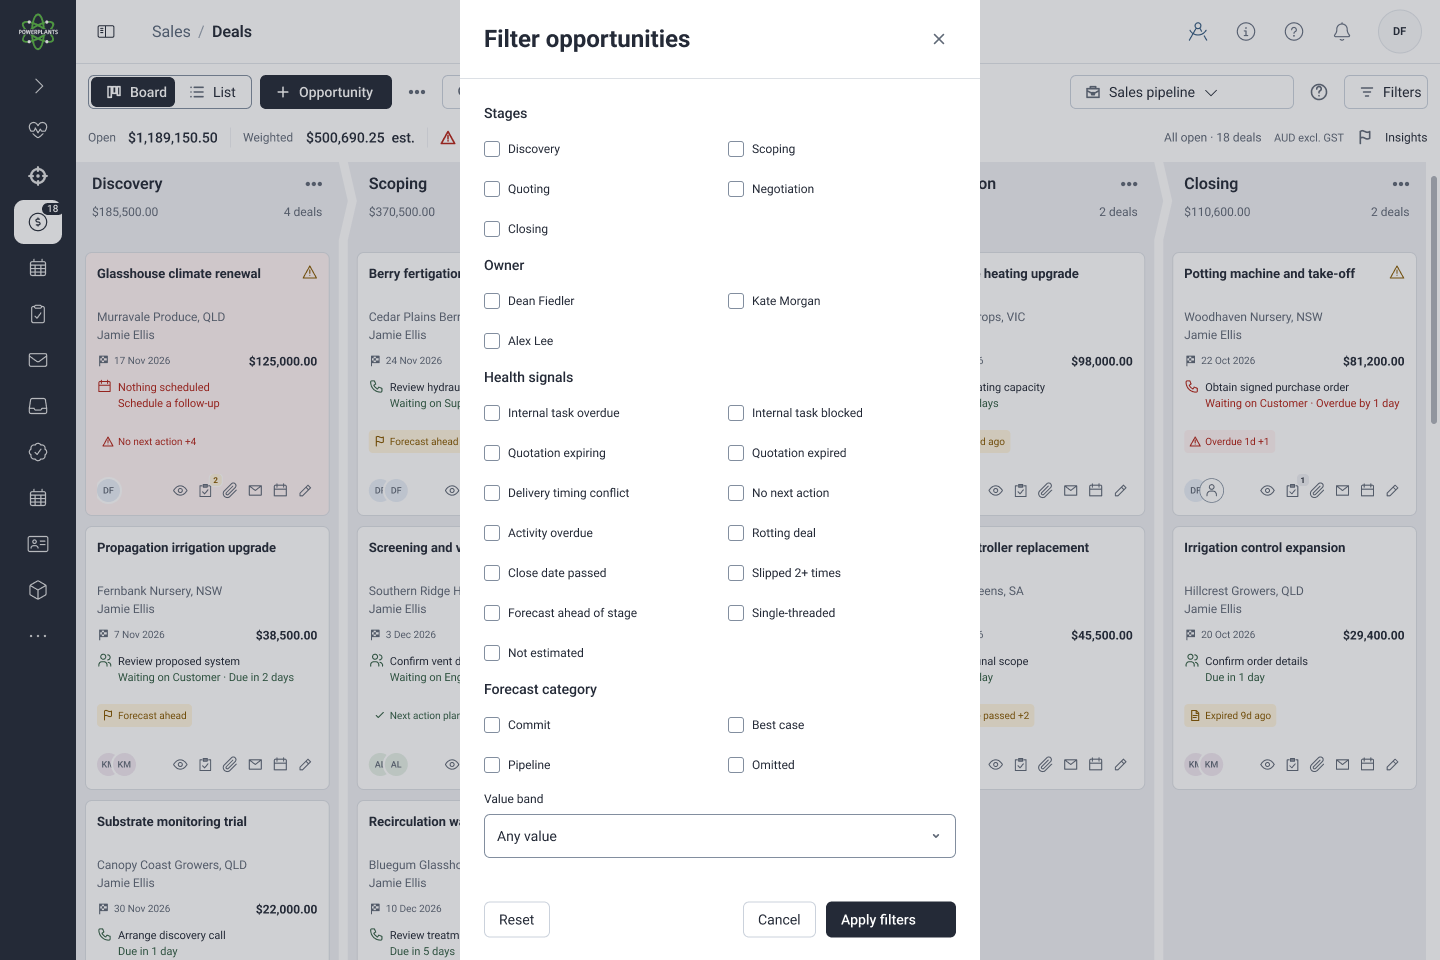
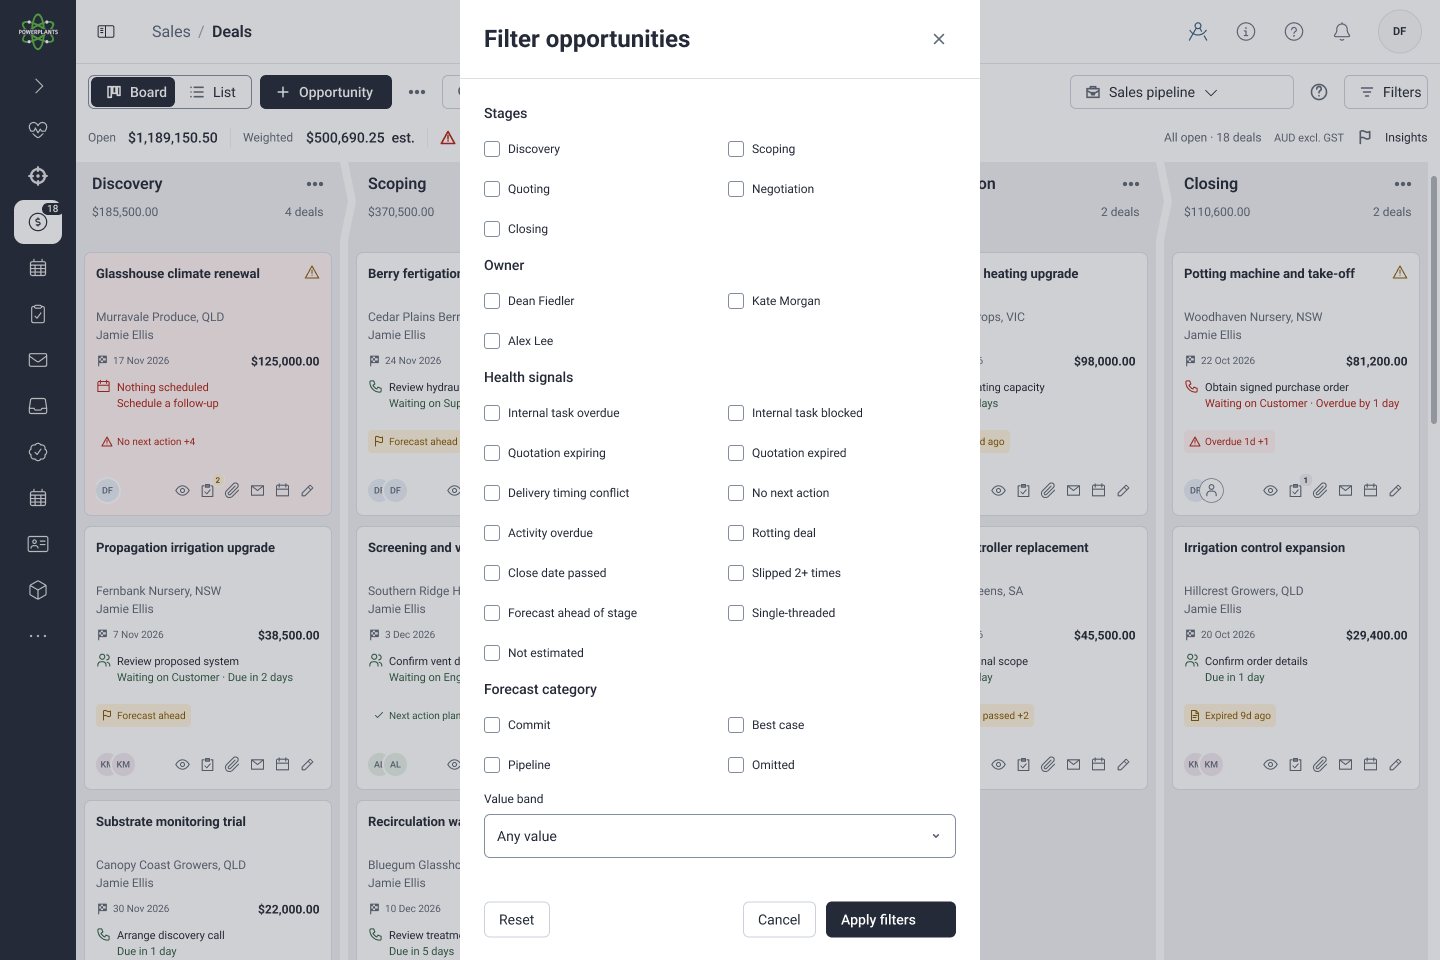
Refine Deals Figma gutters and card borders

diff --git a/docs/testing/evidence/deals-figma/README.md b/docs/testing/evidence/deals-figma/README.md
@@ -29,12 +29,14 @@ All frames are on [Deals (proposal)](https://www.figma.com/design/epLfuDjst5hUJe
 ## 14 October visual refinement
 
[1 lines of base64/hex data omitted]
-- Corrected paired 9px outgoing points and incoming cut-ins across all 20 headers in the four board compositions. The white channel follows the header outline without clipped strokes.
+- Corrected paired outgoing points and incoming cut-ins across all 20 headers in the four board compositions. The final follow-up uses 8px edges and gutters, a proposed refinement of the issued 9px spacing. The white channel follows the header outline without clipped strokes.
 - Polished all 72 card instances through the two existing variants: source spacing, correct expected-close and activity icons, finer icon strokes, overlapping 23px avatars, task counts and overdue/rotting colours. Cards remain 264px high; targeted width checks found no text wider than its parent.
+- Refined column/card geometry after Dean specifically called out gaps and borders: 262.8px columns with 9px gutters and 244.8px cards became 264px columns with 8px gutters/insets and 248px cards. Both local card masters and all 72 instances retain 7px corners and uniform 1px inside #dce0e5 borders without effects. In the final Board export, pixel samples at all five first-card left edges return exactly #dce0e5; the previous fractional positions blended several edges.
+- Increased each card stack from 1900px to 1932px, with a 2010px total column height. This restores the clipped final 20px of the seventh Quoting card and its 12px bottom padding in every board composition.
 - Removed the rounded module frame and inset from all five desktop views. Each toolbar, status strip and board/list is now directly in the shared workspace. Restored the inactive Leads glyph contrast using the existing rail icon token on these instances.
 - Compared the accepted Leads workspace and table (`190:20513`, header `196:23379`, default row `196:23346`). The Deals row `551:948` and new header `588:6771` reuse Grid components `74:9`, `74:11`, `74:14`, `74:18`, `74:22`, `74:26`, `74:35`, `74:48` and `74:50`. Shared masters were not changed.
 - List header and all 18 rows are 40px high; body/header text uses shared 14px styles. The 1604px table scrolls horizontally within 1364px. Contact and due are separate columns; stage tags retain the exact 4/3/7/2/2 source distribution. Long cell text uses intentional single-line ellipsis.
-- Inspected fresh Board, List, Snapshot, Filters and Pipeline exports at 1440 x 960. Corrected unresolved fallback surface colours and inherited stage-tag labels before the final passing renders. These five PNGs are the final 14 October captures. The phone PNG is unchanged from 13 October.
+- Inspected fresh Board, List, Snapshot, Filters and Pipeline exports at 1440 x 960. Corrected unresolved fallback surface colours and inherited stage-tag labels before the final passing renders. Board, Snapshot, Filters and Pipeline were recaptured and visually inspected after the final gap/border/height refinement; List retains its passing earlier 14 October capture. The phone PNG is unchanged from 13 October.
 - The screenshot establishes requested appearance; this agent inspection does not grant owner acceptance. No application changes were made.
 
 ## Limits

diff --git a/docs/decisions/deals-figma-design.md b/docs/decisions/deals-figma-design.md
@@ -20,14 +20,14 @@ Source SHA-256: `3b0d7806907bc97e9db37f5ae7d0cedf385abb6d9ec2781b0bedd1e8e7c4ca3
 | Incoming | Synthetic qualified opportunity, owner, stage/version, contact and current next activity |
 | Outgoing | Reviewable follow-up, stage and pipeline context within CRM; Won does not create an order or authorise Projects/ERP work |
 | Exceptions shown | Missing next action, overdue activity, rotting, forecast ahead, expired quotation, unknown estimate and external activity owner |
-| Proposed departures | Collapsed Sales rail around the standalone workspace; existing shared shell/controls; stacked phone list; simplified Figma controls and bounded navigation between six composed states |
+| Proposed departures | Collapsed Sales rail around the standalone workspace; existing shared shell/controls; 8px stage gutters instead of the issued 9px; stacked phone list; simplified Figma controls and bounded navigation between six composed states |
 | Verification | Editable structure, source totals/counts and rendered desktop/phone inspection; exact frame links and PNG evidence are in the execution record |
 
 ## User-directed visual refinement
 
 On 14 October Dean supplied a [stage/card screenshot](../testing/evidence/deals-figma/reference-columns.png), requested correctly positioned white chevrons and professional polish, then directed removal of the extra page container and consistency with other PPO tables. These are explicit user directions, not instructions inferred from the HTML.
 
-All four board compositions now use paired 9px outgoing points/incoming cut-ins across 78px headers. Cards retain 264px height and source spacing, with correct activity-type and expected-close icons, overlapping owner avatars, task counts and distinct overdue/rotting cues. The five desktop workspaces place their toolbar, status strip and worklist directly below the shared top bar; the rounded module frame and inset were removed.
+All four board compositions now use paired 8px outgoing points/incoming cut-ins across 78px headers. Following Dean's further request to refine column gaps and card borders, the 8px PPO spacing token replaces the issued 9px gutter in this proposal. Each column is exactly 264px wide, with 8px card insets and 248 x 264px cards; the whole-pixel positions keep the 1px inside neutral borders crisp. The 1932px card stack preserves the final card and bottom padding in the longest stage. Cards retain correct activity-type and expected-close icons, overlapping owner avatars, task counts and distinct overdue/rotting cues. The five desktop workspaces place their toolbar, status strip and worklist directly below the shared top bar; the rounded module frame and inset were removed.
 
 The list reuses the exact Grid components used by accepted Leads (`190:20513`): 40px white header and rows, 14px Roboto, 12px cell padding, fine right/bottom dividers, neutral stage tags, checkboxes, number alignment and action cells. Contact and next-activity due are separate columns. The 1604px grid scrolls horizontally within the 1364px workspace; all 18 rows fit vertically. Shared component masters and issued HTML remain unchanged.
 

diff --git a/docs/design/development/pages/route-sales-opportunities.md b/docs/design/development/pages/route-sales-opportunities.md
@@ -72,7 +72,7 @@ Dean requested a Deals UI in the existing PPO Design file using the specifically
 - Mobile: [Phone list](https://www.figma.com/design/epLfuDjst5hUJeqBi3eJo8/PPO---Design?node-id=555-7107), 390 x 844. Stacked rows are a proposed adaptation of the source List. No separate 320px or tablet capture was produced.
 - Reuse: existing Sales rail, shared top bar, Button, Roboto text styles and PPO tokens; new local Deals card variants, list rows, phone rows, fields, checkbox and source SVG icon components.
 - Fixtures: 18 source opportunities, 4/3/7/2/2 stage counts, $1,189,150.50 known open total; $500,690.25 weighted estimate remains illustrative. Unknown values retain “Not estimated”.
-- Layout: collapsed 76px Sales rail; toolbar/status/worklist directly in the shared workspace with no extra module container. Five fitting stages use paired 9px chevron edges across 78px headers and 264px cards. Right snapshot and full-height central filter form remain.
+- Layout: collapsed 76px Sales rail; toolbar/status/worklist directly in the shared workspace with no extra module container. Five fitting stages use paired 8px chevron edges across 78px headers. Whole-pixel columns are 264px wide with 8px gutters/insets and 248 x 264px cards, retaining 1px inside neutral borders. The 1932px stack accommodates the final card and bottom padding in the longest stage. The 8px gutter is a proposed refinement of the issued 9px spacing. Right snapshot and full-height central filter form remain.
 - 14 October user feedback: match the supplied stage/card screenshot; correct card spacing, activity icons, overlapping avatars and task counts. The list uses the accepted Leads Grid components: 40px rows/header, 14px Roboto, shared cell dividers, stage tags, checkboxes and number/action cells. Separate contact and due columns preserve the source data; the 1604px grid scrolls horizontally within 1364px. Phone composition remains a proposal.
 
 [Decision and scope](../../../decisions/deals-figma-design.md), [visual evidence and limits](../../../testing/evidence/deals-figma/README.md). Editable-layer and visual inspection are design-delivery evidence only. Runtime filters, writes, drag/move commands, all HTML dialog families, accessibility/device acceptance and deployment were not implemented or verified by this Figma task. Owner/review status and existing fingerprints remain unchanged.

diff --git a/docs/design/development/components/sales-board.md b/docs/design/development/components/sales-board.md
@@ -52,6 +52,6 @@ The user-specified r37 design is now an editable [Deals proposal](https://www.fi
 
 The 18 board/list/phone fixtures preserve the source names, stage counts, values, primary contacts where shown and next activities; rot, missing-action, overdue and unknown-value examples remain visible. New Figma components are references for `route:/sales/opportunities`, not new runtime exports or catalogue renderers. Existing consumer bindings and runnable state fixtures remain unchanged.
 
-The 14 October user screenshot governs the stage/card polish: matching outgoing/incoming 9px edges, 78px headers, 264px card slots, thin source glyphs, expected-close flags, activity-type icons, overlapping avatars and task badges. The surrounding workspace has no separate rounded module container. The list uses 40px rows, 14px text, shared grid borders/checkboxes/tags/actions, and a horizontal overflow area for its separate contact and due columns. These local component changes propagate to four board compositions; runtime fixture and consumer bindings remain unchanged.
+The 14 October user screenshot governs the stage/card polish: matching outgoing/incoming 8px edges, 78px headers, thin source glyphs, expected-close flags, activity-type icons, overlapping avatars and task badges. The follow-up gap/border refinement uses the shared 8px spacing token for gutters and card insets, 264px whole-pixel columns and 248 x 264px card masters/instances. Cards retain 7px corners and uniform 1px inside #dce0e5 borders. A 1932px stack prevents the longest stage from clipping its last card. The 8px gutter is a proposed departure from the issued 9px spacing. The surrounding workspace has no separate rounded module container. The list uses 40px rows, 14px text, shared grid borders/checkboxes/tags/actions, and a horizontal overflow area for its separate contact and due columns. These local component changes propagate to four board compositions; runtime fixture and consumer bindings remain unchanged.
 
 [Evidence](../../../testing/evidence/deals-figma/README.md) records updated desktop visual inspection at 1440 x 960 on 14 October and the prior 390 x 844 phone inspection on 13 October. Owner/device acceptance, full HTML interaction coverage, 320px/tablet views and runtime alignment remain open.

diff --git a/docs/STATUS.md b/docs/STATUS.md
@@ -2,7 +2,7 @@
 
 ## Deals Figma visual refinement — 14 October 2026
 
-Dean supplied a stage/card screenshot and requested corrected chevrons, removal of the extra module container and alignment with existing PPO tables. The [Deals design](decisions/deals-figma-design.md) now uses paired stage edges, source-aligned card details, a direct shared workspace and the accepted Leads grid components for its list. [Updated visual evidence](testing/evidence/deals-figma/README.md) covers all five desktop views. The user feedback defines this refinement; owner acceptance, runtime alignment and deployment remain separate.
+Dean supplied a stage/card screenshot and requested corrected chevrons, removal of the extra module container and alignment with existing PPO tables. The [Deals design](decisions/deals-figma-design.md) now uses paired stage edges, source-aligned card details, a direct shared workspace and the accepted Leads grid components for its list. [Updated visual evidence](testing/evidence/deals-figma/README.md) covers all five desktop views. A further spacing pass uses 8px gutters, whole-pixel column/card bounds and crisp 1px card borders, and fixes clipping at the bottom of the longest stage. The user feedback defines this refinement; owner acceptance, runtime alignment and deployment remain separate.
 
 ## Deals Figma design — 13 October 2026
 
